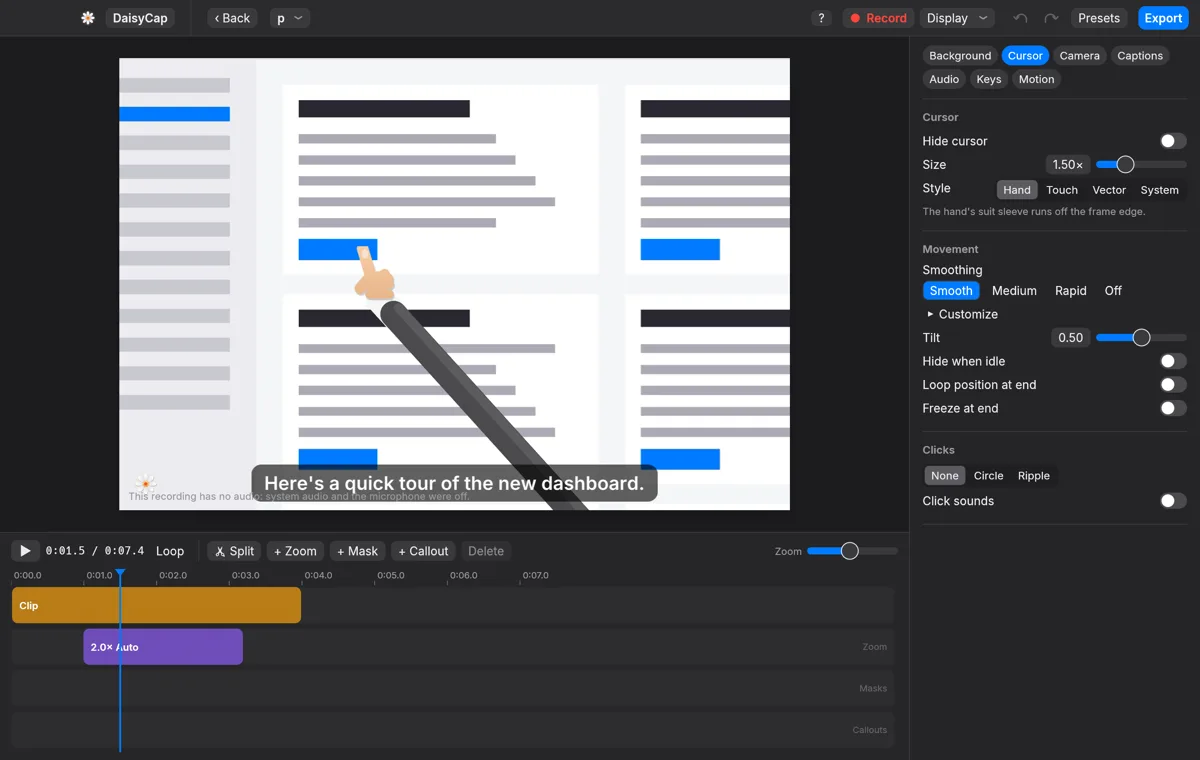
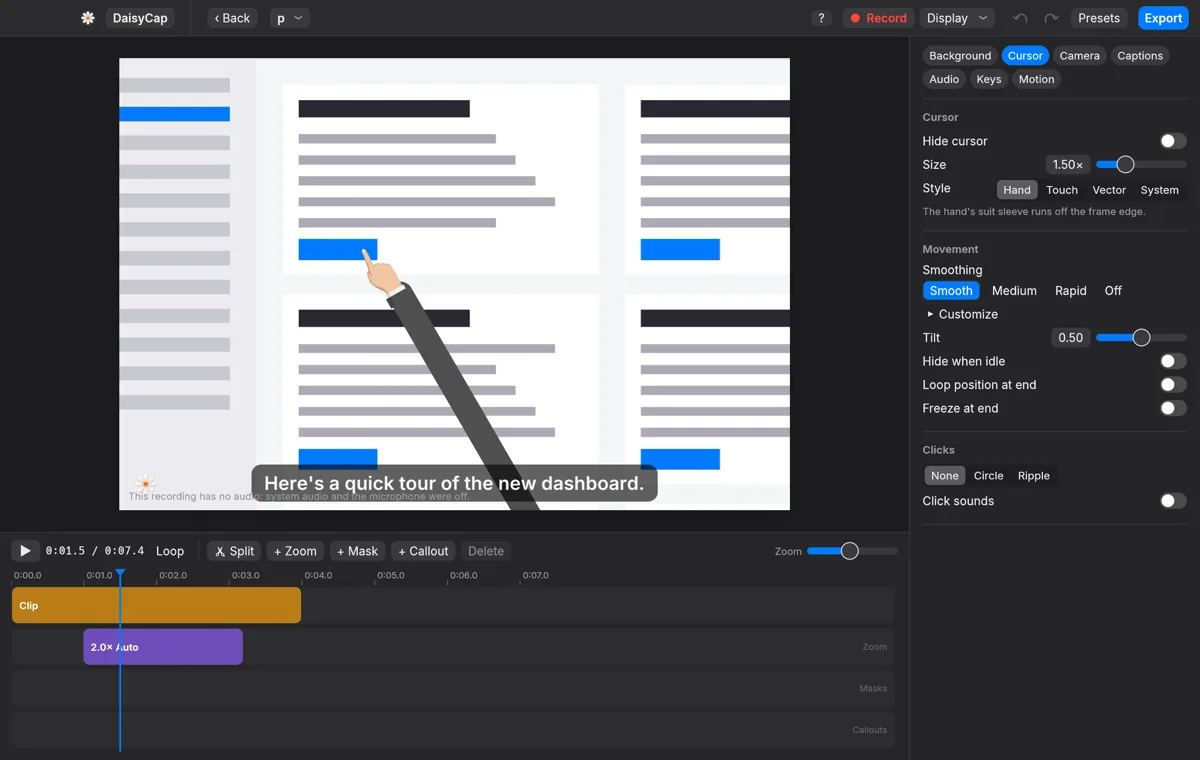
feat(cursor): the hand is the owner's sprite, with its sleeve drawn to the edge

Changed region(s): [[0.37, 0.4842, 0.4933, 0.6961], [0.2775, 0.3026, 0.37, 0.4842]]

diff --git a/src/render/art.rs b/src/render/art.rs
@@ -1,5 +1,5 @@
-//! Built-in artwork generated in code: wallpapers and vector cursors.
-//! (No third-party images are bundled.)
+//! Built-in artwork: wallpapers and vector cursors drawn in code, plus the
+//! bundled hand sprite (`assets/hand-cursor.png`).
 
 use super::Image;
 use crate::engine::geom::{Vec2, v2};
@@ -199,74 +199,23 @@ pub fn touch_cursor() -> (Image, Vec2, f64) {
     (Image { width: s, height: s, rgba }, v2(0.5, 0.5), 1.4)
 }
 
-/// The hand's height in sprite units that draws at one standard arrow's
-/// height, so the hand comes out about twice the arrow at the same size.
-pub const HAND_UNITS: f64 = 10.0;
+/// A palm, index finger and curled knuckles are too fiddly to draw, so the
+/// hand is a bundled sprite with its background removed: `assets/hand-cursor.png`
+/// (361 px square, fingertip near its top-left). The sleeve is its own layer,
+/// so only its geometry is repeated here, measured off the sprite.
+pub const HAND_DRAW: f64 = 2.70;
+/// The sleeve's start, angle and width, as fractions of the sprite.
+pub const HAND_ARM_FROM: Vec2 = v2(0.523, 0.634);
+pub const HAND_ARM_DEG: f64 = 60.0;
+pub const HAND_ARM_WIDTH: f64 = 0.355;
+/// The sleeve's grey, matching the sprite's cuff.
+pub const HAND_SLEEVE: [f32; 3] = [0.310, 0.310, 0.310];
 
-/// Signed distance to a rounded rect given its min corner and size.
-fn round_rect(p: Vec2, min: Vec2, size: Vec2, r: f64) -> f64 {
-    let (qx, qy) = ((p.x - min.x - size.x / 2.0).abs() - size.x / 2.0 + r, (p.y - min.y - size.y / 2.0).abs() - size.y / 2.0 + r);
-    let (mx, my) = (qx.max(0.0), qy.max(0.0));
-    (mx * mx + my * my).sqrt() + qx.max(qy).min(0.0) - r
-}
-
-/// The hand skin: a flat illustration of a hand pointing up and to the left,
-/// fingertip at the hotspot, with a soft shadow and a nail. The sprite ends at
-/// the wrist; the cuff and sleeve are the arm layer's job (see
-/// `engine::scene`). Returns the image, the hotspot and the height relative to
-/// a standard arrow.
+/// The hand sprite, its fingertip hotspot and the height relative to a
+/// standard arrow. The drawn hand is twice an arrow.
 pub fn hand_cursor() -> (Image, Vec2, f64) {
-    const PX: f64 = 6.0;
-    let pad = 4.0;
-    let tip = v2(3.0, -3.0);
-    let units = v2(17.0, 22.0);
-    let (w, h) = (((units.x + 2.0 * pad) * PX).ceil() as u32, ((units.y + 2.0 * pad) * PX).ceil() as u32);
-
-    // The silhouette: finger up, the fist with curled knuckles on the right,
-    // the thumb alongside, and a wide wrist stub the cuff sits under.
-    let hand = |p: Vec2| -> f64 {
-        let mut d = seg_dist(p, tip, v2(5.8, 6.4)) - 2.3;
-        d = d.min(round_rect(p, v2(3.4, 5.8), v2(10.4, 7.8), 3.6));
-        for (cx, cy) in [(11.6, 7.0), (13.0, 8.8), (13.2, 10.8)] {
-            d = d.min((p - v2(cx, cy)).length() - 2.1);
-        }
-        d.min(seg_dist(p, v2(5.4, 8.6), v2(2.0, 12.6)) - 2.2).min(round_rect(p, v2(4.0, 13.2), v2(11.2, 3.4), 1.7))
-    };
-    // A nail on the fingertip.
-    let nail = |p: Vec2| {
-        let q = v2((p.x - 3.9) / 1.3, (p.y + 1.0) / 1.8);
-        q.length() - 1.0
-    };
-    let light = [0.965, 0.804, 0.651];
-    let dark = [0.910, 0.714, 0.545];
-    let nail_col = [0.984, 0.890, 0.808];
-    let mut rgba = Vec::with_capacity((w * h * 4) as usize);
-    for y in 0..h {
-        for x in 0..w {
-            let p = v2((x as f64 + 0.5) / PX - pad, (y as f64 + 0.5) / PX - pad);
-            let aa = 0.75 / PX;
-            let cover = |d: f64| ((-d) / aa + 0.5).clamp(0.0, 1.0);
-            let shadow = cover(hand(p - v2(0.35, 0.7))) * 0.18;
-            let fill = cover(hand(p));
-            let t = ((p.y - tip.y) / 19.0).clamp(0.0, 1.0);
-            let col = [light[0] + (dark[0] - light[0]) * t, light[1] + (dark[1] - light[1]) * t, light[2] + (dark[2] - light[2]) * t];
-            let mark = cover(nail(p)) * fill;
-            // Composite premultiplied, back to front: shadow, skin, nail.
-            let mut a = shadow;
-            let mut c = [0.0, 0.0, 0.0];
-            let over = |c: &mut [f64; 3], a: &mut f64, col: [f64; 3], cov: f64| {
-                for i in 0..3 {
-                    c[i] = col[i] * cov + c[i] * (1.0 - cov);
-                }
-                *a = cov + *a * (1.0 - cov);
-            };
-            over(&mut c, &mut a, col, fill);
-            over(&mut c, &mut a, nail_col, mark);
-            rgba.extend_from_slice(&[(c[0] * 255.0) as u8, (c[1] * 255.0) as u8, (c[2] * 255.0) as u8, (a * 255.0) as u8]);
-        }
-    }
-    let hot = v2((tip.x + pad) / (units.x + 2.0 * pad), (tip.y + pad) / (units.y + 2.0 * pad));
-    (Image { width: w, height: h, rgba }, hot, (units.y + 2.0 * pad) / HAND_UNITS)
+    let img = Image::from_png_bytes(include_bytes!("../../assets/hand-cursor.png")).expect("the hand sprite");
+    (img, v2(0.163, 0.080), HAND_DRAW)
 }
 
 #[cfg(test)]
@@ -280,10 +229,14 @@ mod tests {
         assert!(hot.x > 0.0 && hot.x < 1.0 && hot.y > 0.0 && hot.y < 1.0, "{hot:?}");
         let alpha = |x: usize, y: usize| img.rgba[(y * img.width as usize + x) * 4 + 3];
         let opaque = img.rgba.chunks_exact(4).filter(|p| p[3] > 200).count();
-        assert!(opaque > (img.width * img.height / 8) as usize, "the hand fills a good part of the sprite");
+        assert!(opaque > (img.width * img.height / 5) as usize, "the hand fills a good part of the sprite");
         assert!(alpha(0, 0) < 10, "the top-left corner stays clear");
-        let tip = ((hot.x + 0.05) * img.width as f64) as usize;
-        assert!(alpha(tip.min(img.width as usize - 1), 2) > 200, "the fingertip is solid");
-        assert!((scale - (22.0 + 8.0) / HAND_UNITS).abs() < 1e-6, "scale matches the sprite height");
+        let tip = ((hot.x * img.width as f64) as usize, (hot.y * img.height as f64 + 8.0) as usize);
+        assert!(alpha(tip.0, tip.1) > 200, "the fingertip is solid");
+        assert!(scale > 1.0, "the hand draws larger than the arrow");
+        // The sleeve geometry sits inside the sprite and points down-right.
+        assert!(HAND_ARM_FROM.x > 0.0 && HAND_ARM_FROM.x < 1.0 && HAND_ARM_FROM.y > 0.0 && HAND_ARM_FROM.y < 1.0);
+        assert!((0.0..90.0).contains(&HAND_ARM_DEG));
+        assert!(HAND_ARM_WIDTH > 0.1 && HAND_ARM_WIDTH < 1.0);
     }
 }

diff --git a/src/render/mod.rs b/src/render/mod.rs
@@ -95,7 +95,11 @@ impl Image {
         self
     }
     pub fn from_png(path: &Path) -> Result<Self> {
-        let img = image::open(path)?.to_rgba8();
+        Self::from_png_bytes(&std::fs::read(path)?)
+    }
+
+    pub fn from_png_bytes(bytes: &[u8]) -> Result<Self> {
+        let img = image::load_from_memory(bytes)?.to_rgba8();
         Ok(Image { width: img.width(), height: img.height(), rgba: img.into_raw() }.premultiply())
     }
 }
@@ -662,30 +666,21 @@ impl Renderer {
         }
         }
 
-        // The hand skin's sleeve: over the window, under the cursor and the
-        // click effects. It runs past the frame edge, so the frame cuts it.
+        // The hand skin's sleeve: over the window, under the cursor. It
+        // continues the sprite's own grey cuff past the frame edge, so the
+        // frame cuts it. Its start sits under the sprite, hiding the join.
         if let Some(arm) = &frame.arm
             && arm.alpha > 0.002
         {
-            let seg = arm.to - arm.from;
-            let dir = v2(seg.x / seg.length(), seg.y / seg.length());
-            let mut shaft = |from: Vec2, to: Vec2, thick: f64, head: f64, color: [f32; 3]| {
-                let (min, max) = (from.min(to), from.max(to));
-                let pad = thick + 2.0;
-                let rect = Rect::from_min_size(min - Vec2::splat(pad), (max - min) + Vec2::splat(2.0 * pad));
-                let mut d = Draw::new(MODE_CALLOUT, rect, size);
-                d.p0 = [thick as f32, head as f32, 0.0, arm.alpha as f32];
-                d.p3 = [from.x as f32, from.y as f32, to.x as f32, to.y as f32];
-                d.p4 = [color[0], color[1], color[2], 1.0];
-                d.out[3] = 1.0;
-                main.push((d, TexId::Dummy));
-            };
-            let wrist = arm.from;
-            // A clean white cuff band, slightly proud of the grey sleeve.
-            shaft(wrist, wrist + dir * (arm.width * 0.85), arm.width * 1.06, arm.width * 0.6, [0.965, 0.963, 0.957]);
-            shaft(wrist + dir * (arm.width * 0.75), arm.to, arm.width, arm.width * 0.4, [0.290, 0.290, 0.302]);
-            let edge = v2(dir.y, -dir.x) * (arm.width * 0.30);
-            shaft(wrist + dir * (arm.width * 0.7) + edge, arm.to + edge, arm.width * 0.35, arm.width * 0.2, [0.361, 0.361, 0.373]);
+            let (min, max) = (arm.from.min(arm.to), arm.from.max(arm.to));
+            let pad = arm.width + 2.0;
+            let rect = Rect::from_min_size(min - Vec2::splat(pad), (max - min) + Vec2::splat(2.0 * pad));
+            let mut d = Draw::new(MODE_CALLOUT, rect, size);
+            d.p0 = [arm.width as f32, arm.width as f32, 0.0, arm.alpha as f32];
+            d.p3 = [arm.from.x as f32, arm.from.y as f32, arm.to.x as f32, arm.to.y as f32];
+            d.p4 = [art::HAND_SLEEVE[0], art::HAND_SLEEVE[1], art::HAND_SLEEVE[2], 1.0];
+            d.out[3] = 1.0;
+            main.push((d, TexId::Dummy));
         }
 
         // Click circles under the cursor.

diff --git a/src/engine/scene.rs b/src/engine/scene.rs
@@ -74,13 +74,6 @@ pub struct ArmLayer {
     pub alpha: f64,
 }
 
-/// Fixed sleeve angle, degrees below horizontal, down and to the right.
-const ARM_DEG: f64 = 48.0;
-/// Where the wrist sits from the fingertip, in hand heights (x right, y down).
-const ARM_WRIST: Vec2 = v2(0.33, 0.95);
-/// Sleeve thickness in hand heights.
-const ARM_WIDTH: f64 = 0.50;
-
 #[derive(Clone, Debug, PartialEq)]
 pub struct CircleFx {
     pub pos: Vec2,
@@ -490,17 +483,17 @@ impl Scene {
                 velocity,
             });
             if style.cursor.skin == CursorSkin::Hand {
-                // The sleeve: steady, from the wrist past the frame edge, so
-                // the frame always cuts it. It fades with the hand.
-                // 20 sprite units is the hand's content height, so this is the
-                // hand as drawn, and the sleeve follows it.
-                let hand = cursor::BASE_HEIGHT * style.cursor.size * k * zoom_scale * 20.0 / art::HAND_UNITS;
+                // The sleeve: steady, from the sprite's cuff past the frame
+                // edge, so the frame always cuts it. It fades with the hand.
+                // Its start, angle and width are measured off the sprite, in
+                // sprite fractions.
+                let sprite = cursor::BASE_HEIGHT * style.cursor.size * k * zoom_scale * art::HAND_DRAW;
                 let rot = cv[2].to_radians();
-                let off = ARM_WRIST * hand;
+                let off = art::HAND_ARM_FROM * sprite;
                 let wrist = pos + v2(off.x * rot.cos() - off.y * rot.sin(), off.x * rot.sin() + off.y * rot.cos());
-                let a = (ARM_DEG + style.cursor.base_rotation).to_radians();
+                let a = (art::HAND_ARM_DEG + style.cursor.base_rotation).to_radians();
                 let dir = v2(a.cos(), a.sin());
-                arm = Some(ArmLayer { from: wrist, to: wrist + dir * (size.x + size.y), width: ARM_WIDTH * hand, alpha: vis_alpha });
+                arm = Some(ArmLayer { from: wrist, to: wrist + dir * (size.x + size.y), width: art::HAND_ARM_WIDTH * sprite, alpha: vis_alpha });
             }
             let fx_px = 16.0 * style.cursor.size * k * zoom_scale;
             match style.cursor.click_effect {

diff --git a/PROGRESS.md b/PROGRESS.md
@@ -252,8 +252,8 @@ transcription were exercised only through their code paths and test media.
   and the status note sits inside the preview.
 - 2026-11-07: a split joins seamlessly (the dip at cuts only plays where the
   recording jumps); 0.2.5.
-- 2026-11-10: cursor hand skin: an illustrated hand whose suit sleeve runs off
-  the frame edge, drawn in code. 0.2.6.
+- 2026-11-10: cursor hand skin: the hand sprite from the owner's artwork
+  (background removed), with its suit sleeve drawn on to the frame edge. 0.2.6.
 
 - Live preview is Retina-sharp, as in Rec: screens are captured at native
   pixel size (`SCCaptureResolutionType::Best`, sRGB, 30 fps), Lanczos-scaled
